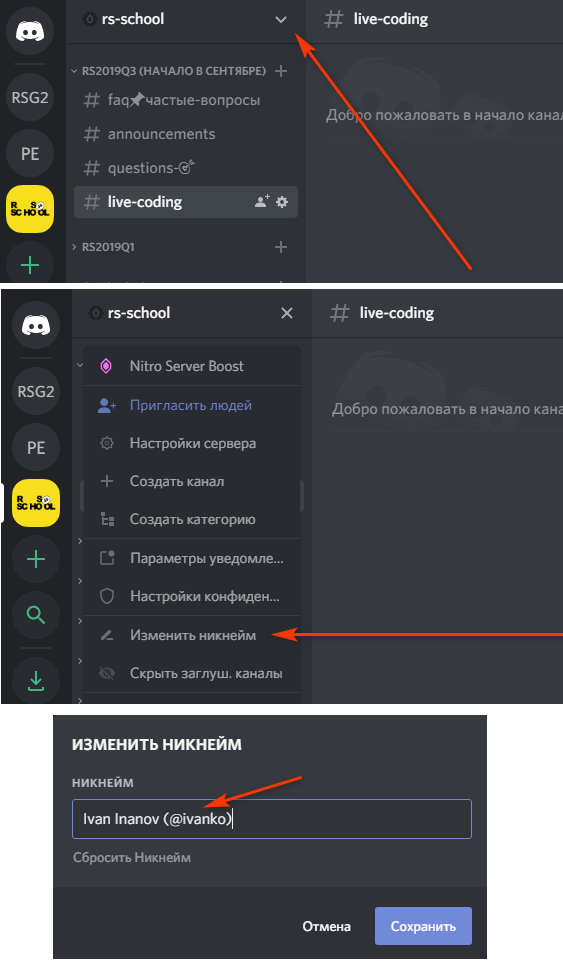
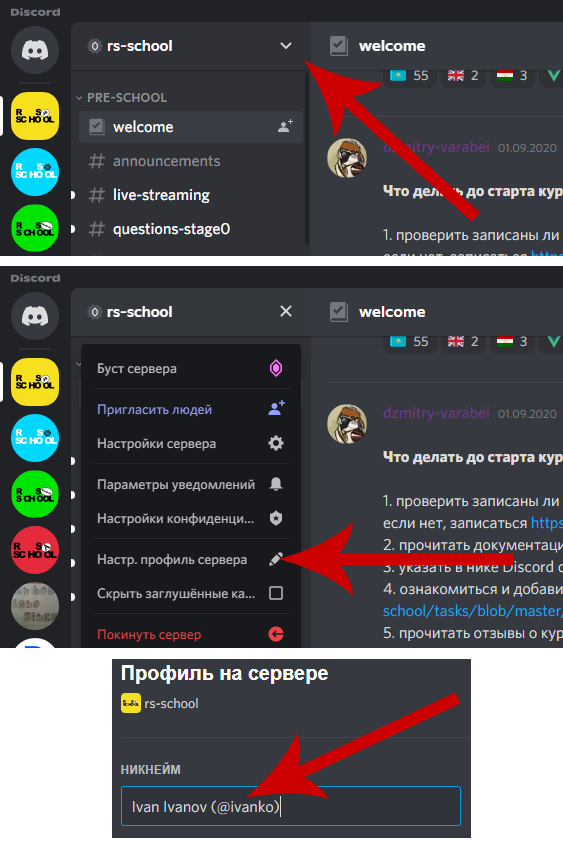
fix: change image discord and description fix-typo

diff --git a/docs/rs-school-chats.md b/docs/rs-school-chats.md
@@ -3,7 +3,7 @@
 * Официальные языки: RU, EN, BE.
 * Ваш ник в Discord должен содержать название вашего GitHub аккаунта. Например, вот так - Paval Miatlitski (@pavalEscoba). Инструкция по добавлению аккаунта GitHub в Discord:
     
-![github](../images/github_acc.png)  
+![github](images/github_acc.png)  
     
 * В канале обсуждается только указанная в его названии тематика, например, **#live-coding** предназначен __исключительно__ для обсуждений live-стримов. Нетематические посты будут удаляться. Назначение каналов указано ниже.
 * Используйте поиск и pinned messages.

diff --git a/docs/fix-typo.md b/docs/fix-typo.md
@@ -32,7 +32,8 @@
 ## 3. Привязываем локальную копию к оригинальному репозиторию
 Для этого заходим в папку склонированного репозитория и выполняем две команды
 
-```git remote add upstream https://github.com/rolling-scopes-school/docs```  
+```git remote add upstream https://github.com/rolling-scopes-school/docs```
+
 ```git fetch upstream```
 ![image](images/fix-typo3.png)
 
@@ -52,7 +53,9 @@
 Для этого выполните команды:
 
 ```git add .```
+
 ```git commit -m "feat: add fix-typo"```
+
 ```git push origin fix-typo```
 
 ### 6. Возвращаем изменения: Pull request
